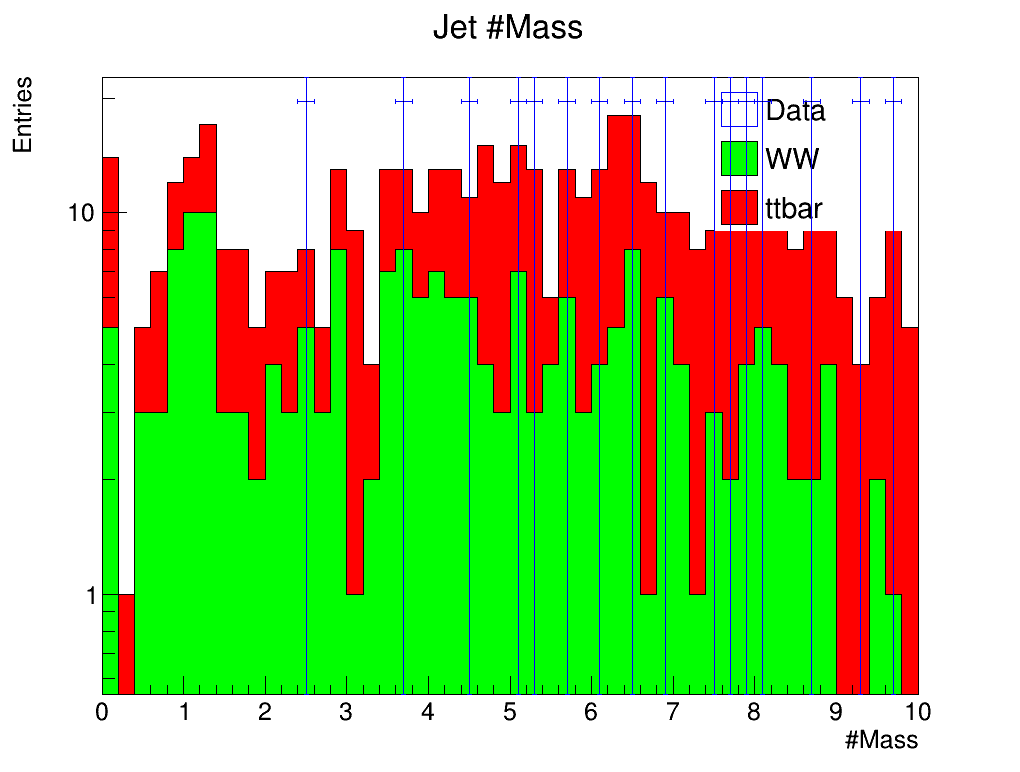
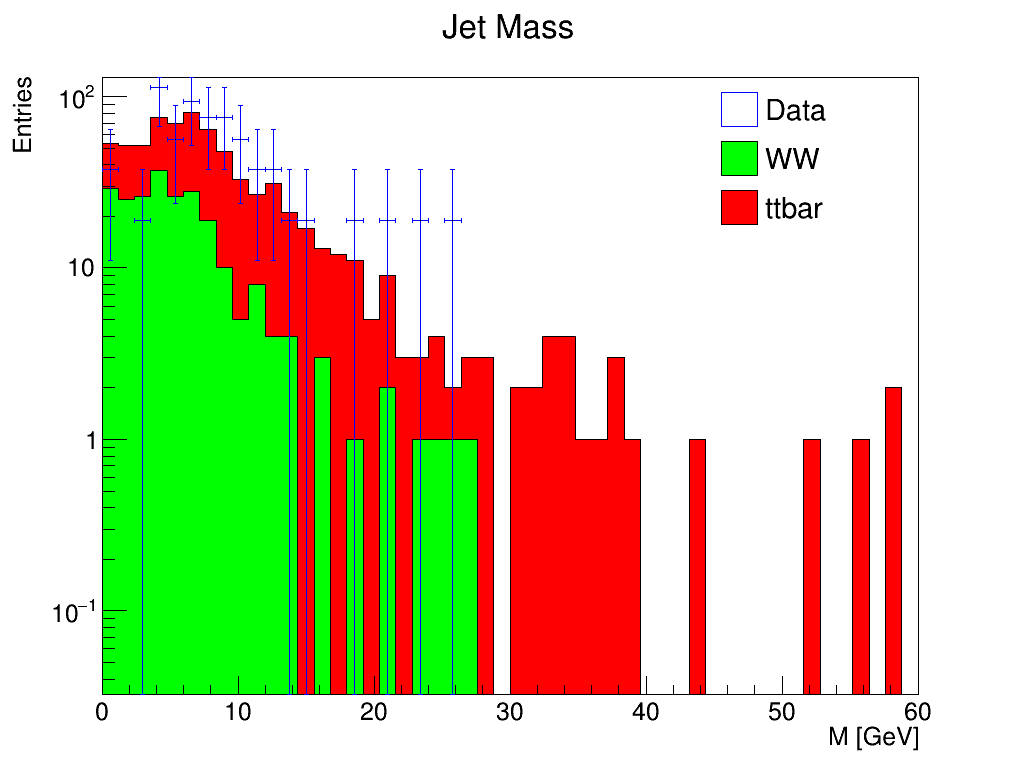
Some changes

diff --git a/ExpPhysFinalProyect/SecondReport/Code/SecondReport_Analysis.C b/ExpPhysFinalProyect/SecondReport/Code/SecondReport_Analysis.C
@@ -51,7 +51,7 @@ class Analysis
 	    TH1F *histJetPT              = new TH1F("histJetPT"      , "Jet P_{T}", 50, 0, 300);
             TH1F *histJetEta             = new TH1F("histJetEta"     , "Jet #eta" , 50, -5, 5);
             TH1F *histJetPhi             = new TH1F("histJetPhi"     , "Jet #phi" , 50, -5, 5);
-	    TH1F *histJetMass            = new TH1F("histJetMass"     , "Jet Mass" , 50, 0, 10);
+	    TH1F *histJetMass            = new TH1F("histJetMass"     , "Jet Mass" , 50, 0, 60);
 	    TH1F *histJetDeltaEta        = new TH1F("histJetDeltaEta", "Jet #Delta #eta", 50, 0, 0.5);
             TH1F *histJetDeltaPhi        = new TH1F("histJetDeltaPhi", "Jet #Delta #phi", 50, 0, 0.5);			
 
@@ -98,9 +98,12 @@ class Analysis
 
 		if(branchMuon -> GetEntries() > 0)
                 {
-                        for(UInt_t i = 0; i < branchMuon -> GetEntries();i++)
-			{
-				//Take first electron                                                                                                $
+                        //Take first muon
+			//Muon *muon = (Muon*) branchMuon -> At(0);
+			
+			//Loop over muon objects
+			for(UInt_t i = 0; i < branchMuon -> GetEntries();i++)
+			{                                                                                                
                         	Muon *muon = (Muon*) branchMuon -> At(i);
 
                         	// Plot electron transverse momentum                                                                                 $
@@ -125,7 +128,9 @@ class Analysis
                 if(branchJet -> GetEntries() > 0)
                 {
                 	
-			Jet *jet = (Jet*) branchJet -> At(0);
+			//Take first jet
+			//Jet *jet = (Jet*) branchJet -> At(0);
+			
 			//Loop over jet objects                                                                                                                                                                                                                                                                                                                                                                                                                                                                                            
                 	for(UInt_t i = 0; i < branchJet -> GetEntries();i++)
 			{

diff --git a/ExpPhysFinalProyect/SecondReport/Code/SecondReport_Plotting.C b/ExpPhysFinalProyect/SecondReport/Code/SecondReport_Plotting.C
@@ -535,8 +535,8 @@ void SecondReport_Plotting()
   	hs_histJetMass -> Add(histJetMass_ttbar);
 
   	hs_histJetMass -> Draw("Hist");
-  	hs_histJetMass -> SetTitle("Jet #Mass");
-  	hs_histJetMass -> GetXaxis()->SetTitle("#Mass");
+  	hs_histJetMass -> SetTitle("Jet Mass");
+  	hs_histJetMass -> GetXaxis()->SetTitle("M [GeV]");
   	hs_histJetMass -> GetYaxis()->SetTitle("Entries");
   	hs_histJetMass -> GetYaxis()->SetTitleOffset(1.4);
   	leg_histJetMass -> Draw();
@@ -577,8 +577,8 @@ void SecondReport_Plotting()
   	hs_histJetDeltaEta -> Add(histJetDeltaEta_ttbar);
 
   	hs_histJetDeltaEta -> Draw("Hist");
-  	hs_histJetDeltaEta -> SetTitle("Jet #DeltaEta");
-  	hs_histJetDeltaEta -> GetXaxis()->SetTitle("#DeltaEta");
+  	hs_histJetDeltaEta -> SetTitle("Jet #Delta #eta");
+  	hs_histJetDeltaEta -> GetXaxis()->SetTitle("#Delta #eta");
   	hs_histJetDeltaEta -> GetYaxis()->SetTitle("Entries");
   	hs_histJetDeltaEta -> GetYaxis()->SetTitleOffset(1.4);
   	leg_histJetDeltaEta -> Draw();
@@ -623,8 +623,8 @@ void SecondReport_Plotting()
   	hs_histJetDeltaPhi -> Add(histJetDeltaPhi_ttbar);
 
   	hs_histJetDeltaPhi -> Draw("Hist");
-  	hs_histJetDeltaPhi -> SetTitle("Jet #DeltaPhi");
-  	hs_histJetDeltaPhi -> GetXaxis()->SetTitle("#DeltaPhi");
+  	hs_histJetDeltaPhi -> SetTitle("Jet #Delta #phi");
+  	hs_histJetDeltaPhi -> GetXaxis()->SetTitle("#Delta #phi");
   	hs_histJetDeltaPhi -> GetYaxis()->SetTitle("Entries");
   	hs_histJetDeltaPhi -> GetYaxis()->SetTitleOffset(1.4);
   	leg_histJetDeltaPhi -> Draw();
